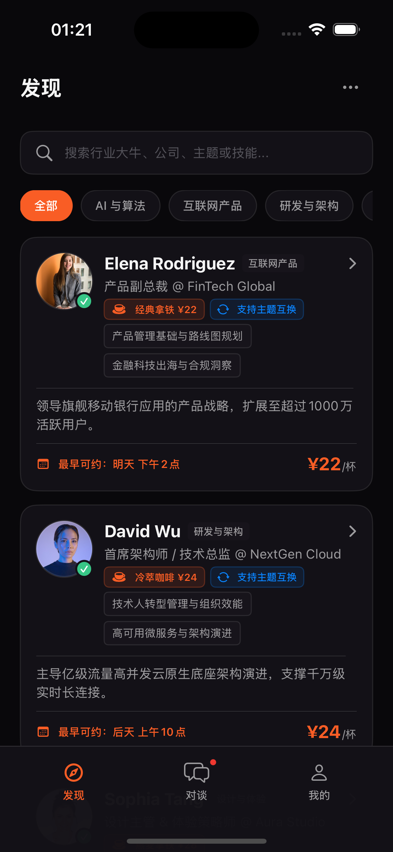
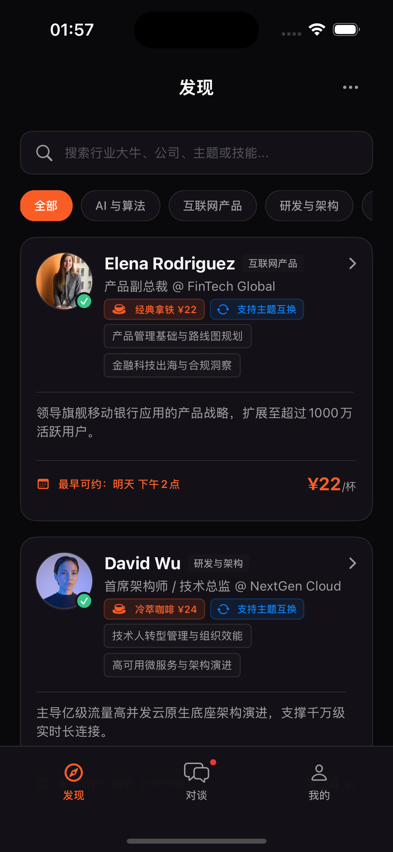
fix(ios): align discovery and availability details

diff --git a/ios/CoffeeLink/Features/SharerDetail/SharerDetailView.swift b/ios/CoffeeLink/Features/SharerDetail/SharerDetailView.swift
@@ -5,11 +5,13 @@ struct SharerDetailView: View {
     @Binding var path: [AppRoute]
     @Environment(\.dismiss) private var dismiss
     @State private var selectedThemeID: String
+    @State private var selectedDayIndex: Int
 
     init(sharer: Sharer, path: Binding<[AppRoute]>) {
         self.sharer = sharer
         self._path = path
         self._selectedThemeID = State(initialValue: sharer.themes.first?.id ?? "")
+        self._selectedDayIndex = State(initialValue: sharer.availableDays.firstIndex(where: { !$0.isFull }) ?? 0)
     }
 
     var body: some View {
@@ -22,6 +24,7 @@ struct SharerDetailView: View {
                     topicSwapCard
                     highlightsCard
                     themesSection
+                    availabilitySection
                     reviewsSection
                 }
                 .padding(.horizontal, 20)
@@ -223,6 +226,69 @@ struct SharerDetailView: View {
                 .overlay(RoundedRectangle(cornerRadius: 12, style: .continuous).stroke(CoffeeLinkTheme.border, lineWidth: 1))
             }
         }
+    }
+
+    private var availabilitySection: some View {
+        let day = selectedAvailabilityDay
+        return VStack(alignment: .leading, spacing: 12) {
+            HStack {
+                Label("近期可约时间", systemImage: "calendar")
+                    .font(.system(size: 13, weight: .bold))
+                    .foregroundStyle(CoffeeLinkTheme.primaryText)
+                Spacer()
+                Text("未来 7 天")
+                    .font(.system(size: 10, weight: .medium))
+                    .foregroundStyle(CoffeeLinkTheme.accent)
+                    .padding(.horizontal, 7)
+                    .padding(.vertical, 4)
+                    .background(CoffeeLinkTheme.accent.opacity(0.12), in: RoundedRectangle(cornerRadius: 5, style: .continuous))
+                    .overlay(RoundedRectangle(cornerRadius: 5, style: .continuous).stroke(CoffeeLinkTheme.accent.opacity(0.28), lineWidth: 1))
+            }
+            ScrollView(.horizontal, showsIndicators: false) {
+                HStack(spacing: 8) {
+                    ForEach(Array(sharer.availableDays.enumerated()), id: \.element.id) { index, availableDay in
+                        Button { selectedDayIndex = index } label: {
+                            VStack(spacing: 4) {
+                                Text(availableDay.date).font(.system(size: 10)).foregroundStyle(CoffeeLinkTheme.secondaryText)
+                                Text(availableDay.dayOfWeek).font(.system(size: 12, weight: .bold)).foregroundStyle(index == selectedDayIndex ? CoffeeLinkTheme.accent : CoffeeLinkTheme.primaryText)
+                                Text(availableDay.isFull ? "已满" : "\(availableDay.slotsCount)个时段").font(.system(size: 10)).foregroundStyle(availableDay.isFull ? CoffeeLinkTheme.secondaryText : CoffeeLinkTheme.accent)
+                            }
+                            .frame(width: 76, height: 67)
+                            .background(index == selectedDayIndex ? CoffeeLinkTheme.elevatedSurface : CoffeeLinkTheme.surface, in: RoundedRectangle(cornerRadius: 12, style: .continuous))
+                            .overlay(RoundedRectangle(cornerRadius: 12, style: .continuous).stroke(index == selectedDayIndex ? CoffeeLinkTheme.accent : CoffeeLinkTheme.border, lineWidth: index == selectedDayIndex ? 1.5 : 1))
+                            .opacity(availableDay.isFull ? 0.45 : 1)
+                        }
+                        .buttonStyle(.plain)
+                        .disabled(availableDay.isFull)
+                    }
+                }
+            }
+            if !day.slots.isEmpty {
+                VStack(alignment: .leading, spacing: 8) {
+                    Text("可选时段").font(.system(size: 11, weight: .medium)).foregroundStyle(CoffeeLinkTheme.secondaryText)
+                    LazyVGrid(columns: [GridItem(.adaptive(minimum: 92), spacing: 8)], alignment: .leading, spacing: 8) {
+                        ForEach(day.slots) { slot in
+                            Label(slot.label, systemImage: "clock")
+                                .font(.system(size: 11, weight: .medium))
+                                .foregroundStyle(CoffeeLinkTheme.primaryText)
+                                .padding(.horizontal, 9)
+                                .frame(height: 32)
+                                .background(CoffeeLinkTheme.elevatedSurface, in: RoundedRectangle(cornerRadius: 8, style: .continuous))
+                                .overlay(RoundedRectangle(cornerRadius: 8, style: .continuous).stroke(CoffeeLinkTheme.border, lineWidth: 1))
+                        }
+                    }
+                }
+                .padding(.top, 2)
+            }
+        }
+        .padding(16)
+        .background(CoffeeLinkTheme.surface, in: RoundedRectangle(cornerRadius: 16, style: .continuous))
+        .overlay(RoundedRectangle(cornerRadius: 16, style: .continuous).stroke(CoffeeLinkTheme.border, lineWidth: 1))
+    }
+
+    private var selectedAvailabilityDay: AvailabilityDay {
+        guard sharer.availableDays.indices.contains(selectedDayIndex) else { return sharer.availableDays[0] }
+        return sharer.availableDays[selectedDayIndex]
     }
 
     private var actionBar: some View {

diff --git a/ios/CoffeeLink/Features/Discover/DiscoverView.swift b/ios/CoffeeLink/Features/Discover/DiscoverView.swift
@@ -9,16 +9,7 @@ struct DiscoverView: View {
     private let industries = ["全部", "AI 与算法", "互联网产品", "研发与架构", "战略与咨询", "设计与体验", "出海与商业化"]
 
     private var filteredSharers: [Sharer] {
-        store.snapshot.sharers.filter { sharer in
-            let categoryMatches = selectedIndustry == "全部" || sharer.industry == selectedIndustry
-                || (selectedIndustry == "互联网产品" && (sharer.title.contains("产品") || sharer.company.contains("FinTech")))
-                || (selectedIndustry == "研发与架构" && (sharer.title.contains("技术") || sharer.highlights.joined().contains("架构")))
-                || (selectedIndustry == "设计与体验" && sharer.title.contains("设计"))
-                || (selectedIndustry == "出海与商业化" && (sharer.title.contains("出海") || sharer.title.contains("增长")))
-            let needle = searchQuery.trimmingCharacters(in: .whitespacesAndNewlines).lowercased()
-            let searchMatches = needle.isEmpty || [sharer.name, sharer.title, sharer.company, sharer.industry ?? "", sharer.highlights.joined(), sharer.themes.map(\.title).joined()].joined().lowercased().contains(needle)
-            return categoryMatches && searchMatches
-        }
+        DiscoverFilter.filter(store.snapshot.sharers, industry: selectedIndustry, query: searchQuery)
     }
 
     var body: some View {
@@ -51,7 +42,7 @@ struct DiscoverView: View {
                     }
                 }
 
-                VStack(spacing: 14) {
+                VStack(spacing: 16) {
                     ForEach(filteredSharers) { sharer in
                         Button { path.append(.sharerDetail(sharer.id)) } label: { SharerCard(sharer: sharer) }
                             .buttonStyle(.plain)
@@ -64,5 +55,46 @@ struct DiscoverView: View {
             .padding(.bottom, 12)
         }
         .background(CoffeeLinkTheme.background)
+    }
+}
+
+enum DiscoverFilter {
+    static func filter(_ sharers: [Sharer], industry: String, query: String) -> [Sharer] {
+        sharers.filter { sharer in
+            categoryMatches(sharer, industry: industry) && searchMatches(sharer, query: query)
+        }
+    }
+
+    private static func categoryMatches(_ sharer: Sharer, industry: String) -> Bool {
+        guard industry != "全部" else { return true }
+        if sharer.industry == industry { return true }
+
+        switch industry {
+        case "AI 与算法":
+            return sharer.title.contains("AI") || sharer.highlights.contains { $0.contains("AI") || $0.contains("大模型") }
+        case "互联网产品":
+            return sharer.title.contains("产品") || sharer.company.contains("FinTech")
+        case "研发与架构":
+            return sharer.title.contains("研发") || sharer.title.contains("技术") || sharer.highlights.contains { $0.contains("架构") || $0.contains("并发") }
+        case "战略与咨询":
+            return sharer.title.contains("咨询") || sharer.title.contains("创始人") || sharer.highlights.contains { $0.contains("咨询") }
+        case "设计与体验":
+            return sharer.title.contains("设计") || sharer.title.contains("UX")
+        case "出海与商业化":
+            return sharer.title.contains("出海") || sharer.title.contains("增长")
+        default:
+            return false
+        }
+    }
+
+    private static func searchMatches(_ sharer: Sharer, query: String) -> Bool {
+        let needle = query.trimmingCharacters(in: .whitespacesAndNewlines).lowercased()
+        guard !needle.isEmpty else { return true }
+        return sharer.name.lowercased().contains(needle)
+            || sharer.title.lowercased().contains(needle)
+            || sharer.company.lowercased().contains(needle)
+            || sharer.industry?.lowercased().contains(needle) == true
+            || sharer.highlights.contains { $0.lowercased().contains(needle) }
+            || sharer.themes.contains { $0.title.lowercased().contains(needle) || $0.description.lowercased().contains(needle) }
     }
 }

diff --git a/ios/CoffeeLink/DesignSystem/CoffeeLinkComponents.swift b/ios/CoffeeLink/DesignSystem/CoffeeLinkComponents.swift
@@ -121,24 +121,34 @@ struct CoffeeTopBar: View {
     var trailingAction: (() -> Void)?
 
     var body: some View {
-        HStack(spacing: 12) {
+        ZStack {
             Text(title)
-                .font(.system(size: 22, weight: .bold))
+                .font(.system(size: 18, weight: .bold))
                 .foregroundStyle(CoffeeLinkTheme.primaryText)
-            Spacer()
-            if let trailingAction {
-                Button(action: trailingAction) {
-                    Image(systemName: "ellipsis")
-                        .font(.system(size: 16, weight: .semibold))
-                        .foregroundStyle(CoffeeLinkTheme.secondaryText)
-                        .frame(width: 44, height: 44)
-                }
-                .buttonStyle(.plain)
-                .accessibilityLabel("设置")
+            HStack {
+                Color.clear.frame(width: 44, height: 44)
+                Spacer()
+                trailingSlot
             }
+            .padding(.horizontal, 20)
         }
-        .padding(.horizontal, 20)
         .frame(height: 56)
         .background(CoffeeLinkTheme.background)
+    }
+
+    @ViewBuilder
+    private var trailingSlot: some View {
+        if let trailingAction {
+            Button(action: trailingAction) {
+                Image(systemName: "ellipsis")
+                    .font(.system(size: 16, weight: .semibold))
+                    .foregroundStyle(CoffeeLinkTheme.secondaryText)
+                    .frame(width: 44, height: 44)
+            }
+            .buttonStyle(.plain)
+            .accessibilityLabel("设置")
+        } else {
+            Color.clear.frame(width: 44, height: 44)
+        }
     }
 }

diff --git a/ios/CoffeeLinkUITests/CoreFlowsUITests.swift b/ios/CoffeeLinkUITests/CoreFlowsUITests.swift
@@ -4,13 +4,38 @@ final class CoreFlowsUITests: XCTestCase {
     @MainActor
     func testDiscoverOpensElenaDetail() {
         let app = launchResetDemo()
-        XCTAssertTrue(app.staticTexts["Elena Rodriguez"].waitForExistence(timeout: 2))
+        let elenaCard = app.buttons["sharer.elena-rodriguez"]
+        XCTAssertTrue(elenaCard.waitForExistence(timeout: 2))
+        XCTAssertTrue(elenaCard.isHittable)
 
         app.buttons["sharer.elena-rodriguez"].tap()
 
         XCTAssertTrue(app.staticTexts["分享者详情"].waitForExistence(timeout: 2))
         XCTAssertTrue(app.buttons["请喝咖啡（¥22）"].exists)
         XCTAssertTrue(app.buttons["主题互换（0元）"].exists)
+    }
+
+    @MainActor
+    func testDiscoverStrategicConsultingFilterKeepsElenaVisible() {
+        let app = launchResetDemo()
+
+        app.buttons["战略与咨询"].tap()
+
+        let elenaCard = app.buttons["sharer.elena-rodriguez"]
+        XCTAssertTrue(elenaCard.waitForExistence(timeout: 2))
+        XCTAssertTrue(elenaCard.isHittable)
+    }
+
+    @MainActor
+    func testSharerDetailShowsUpcomingAvailabilitySlots() {
+        let app = launchResetDemo()
+        app.buttons["sharer.elena-rodriguez"].tap()
+
+        let detail = app.scrollViews.firstMatch
+        detail.swipeUp()
+        XCTAssertTrue(app.staticTexts["近期可约时间"].waitForExistence(timeout: 2))
+        XCTAssertTrue(app.staticTexts["10月24日"].exists)
+        XCTAssertTrue(app.staticTexts["09:00 上午"].exists)
     }
 
     @MainActor

diff --git a/ios/CoffeeLink/Features/Discover/SharerCard.swift b/ios/CoffeeLink/Features/Discover/SharerCard.swift
@@ -5,7 +5,7 @@ struct SharerCard: View {
 
     var body: some View {
         CoffeeCard {
-            VStack(alignment: .leading, spacing: 11) {
+            VStack(alignment: .leading, spacing: 15) {
                 HStack(alignment: .top, spacing: 12) {
                     avatar
                     VStack(alignment: .leading, spacing: 5) {
@@ -51,7 +51,8 @@ struct SharerCard: View {
                         .foregroundStyle(CoffeeLinkTheme.secondaryText)
                         .lineLimit(2)
                         .lineSpacing(3)
-                        .padding(.top, 10)
+                        .padding(.top, 13)
+                        .padding(.bottom, 6)
                         .overlay(alignment: .top) { Divider().overlay(CoffeeLinkTheme.border) }
                 }
                 HStack {
@@ -68,7 +69,8 @@ struct SharerCard: View {
                             .foregroundStyle(CoffeeLinkTheme.secondaryText)
                     }
                 }
-                .padding(.top, 10)
+                .padding(.top, 13)
+                .padding(.bottom, 10)
                 .overlay(alignment: .top) { Divider().overlay(CoffeeLinkTheme.border) }
             }
         }

diff --git a/ios/CoffeeLinkTests/DiscoverFilterTests.swift b/ios/CoffeeLinkTests/DiscoverFilterTests.swift
@@ -1,0 +1,17 @@
+import XCTest
+@testable import CoffeeLink
+
+final class DiscoverFilterTests: XCTestCase {
+    func testStrategicConsultingFallbackKeepsElena() throws {
+        let elena = try XCTUnwrap(AppSnapshot.demo.sharers.first { $0.id == "elena-rodriguez" })
+
+        XCTAssertEqual(DiscoverFilter.filter([elena], industry: "战略与咨询", query: "").map(\.id), ["elena-rodriguez"])
+    }
+
+    func testAIAlgorithmFallbackMatchesBigModelHighlights() throws {
+        var AISharer = try XCTUnwrap(AppSnapshot.demo.sharers.first { $0.id == "elena-rodriguez" })
+        AISharer.highlights = ["负责大模型产品落地与增长策略。"]
+
+        XCTAssertEqual(DiscoverFilter.filter([AISharer], industry: "AI 与算法", query: "").map(\.id), ["elena-rodriguez"])
+    }
+}

diff --git a/ios/VisualTests/task-4-design-qa.md b/ios/VisualTests/task-4-design-qa.md
@@ -18,10 +18,24 @@
 | 图片质量 | pass | Five exact prototype Unsplash images are bundled locally and validated with `sips`; circular crops are sharp and no network placeholder is used. |
 | 文案 | pass | Person ordering, names, roles, company, drink, price, availability, tags, declaration, highlights, and action labels come from `DemoData` / Web prototype. |
 
-## Findings and corrections
+## Initial findings and corrections
 
 1. Initial Discover theme chips were compressed into a single, ellipsized row, making the card too short versus the reference. `SharerCard` now renders the first two theme chips as two compact rows.
 2. Initial detail navigation retained the root custom tab bar, which covered the required fixed two-button action bar (P0). `RootView` now renders the tab bar only while the navigation path is empty; the detail capture shows both bottom actions unobstructed.
 3. Remaining platform-only difference: iPhone status/Dynamic Island chrome introduces a top safe-area band absent from the Web reference. The application content follows the specified native safe-area behavior; this is P3 and not a page-layout defect.
 
-Final result: passed (P0: 0, P1: 0, P2: 0).
+## Round 1 comparison history
+
+Independent review identified four P2 items. Each was corrected and then checked in the refreshed artifacts below.
+
+1. **Discover top bar centering:** `CoffeeTopBar` now uses a full-width `ZStack` with equal 44pt leading/trailing slots and an 18pt title. The refreshed home side-by-side shows “发现” at the application geometry center while the overflow action remains at the right edge.
+2. **Discover card height/density:** measured from normalized images after subtracting the 54px native status-safe-area, the first native card is now about 284px tall versus the 285px Web reference; the second-card start differs by about 2px. The adjustment came from the two theme-chip rows plus section-specific bio/footer rhythm and 16pt feed spacing, not a blank filler.
+3. **Detail availability:** added the Web-prototype “近期可约时间” card between themes and reviews, with the `未来 7 天` badge, date selector, DemoData slot counts, and selected-day time pills. `Captures/02-profile-detail-availability-round1.png` is focused evidence: 10月24日 and 09:00 上午 / 10:30 上午 / 02:00 下午 are visible while the fixed bottom actions remain unobstructed.
+4. **Discover filtering:** extracted `DiscoverFilter` and mirrored the Web fallback rules, including AI/大模型 and 咨询/创始人/highlight matching. Regression tests cover Elena’s strategic-consulting visibility and an AI-highlight fixture.
+
+Refreshed artifacts checked with `view_image`:
+
+- `Captures/01-home.png`, `Captures/02-profile-detail.png`, and `Captures/02-profile-detail-availability-round1.png`.
+- `Comparisons/01-home-side-by-side.png` and `Comparisons/02-profile-detail-side-by-side.png` (reference left, native right; 786 × 852).
+
+Round 1 final result: passed (P0: 0, P1: 0, P2: 0; P3: native status/Dynamic Island system chrome only).

diff --git a/.superpowers/sdd/2026-08-14-coffeelink-ios-native/task-4-report.md b/.superpowers/sdd/2026-08-14-coffeelink-ios-native/task-4-report.md
@@ -29,3 +29,18 @@
 - `xcodebuild build -quiet … -destination iPhone 16 Pro` — pass.
 - `git diff --check` — pass.
 - `rg -n '\\u[0-9a-fA-F]{4}' ios` — no matches.
+
+## Round 1 remediation
+
+- Fixed the Discover title to the Web-aligned centered 18pt top-bar geometry and retained the right overflow action.
+- Re-measured and corrected first-card height to approximately 284px versus the 285px normalized Web card after native-safe-area normalization; the second-card start is within approximately 2px.
+- Added complete DemoData-backed “近期可约时间” date and slot UI, plus a focused UI regression and focused visual capture.
+- Added `DiscoverFilterTests` for the Web-equivalent strategic-consulting and AI/big-model fallbacks; the initial missing-filter RED and missing-availability UI RED were observed before implementation.
+- Refreshed both required captures and comparisons. Final round-1 verification is recorded with the commit.
+
+### Round 1 verification
+
+- Focused Discover/detail and availability UI tests — pass.
+- `DiscoverFilterTests` and Task 3 tab UI regression — pass.
+- Unfiltered CoffeeLink scheme and full CoffeeLinkTests target — pass.
+- iPhone 16 Pro build — pass.
